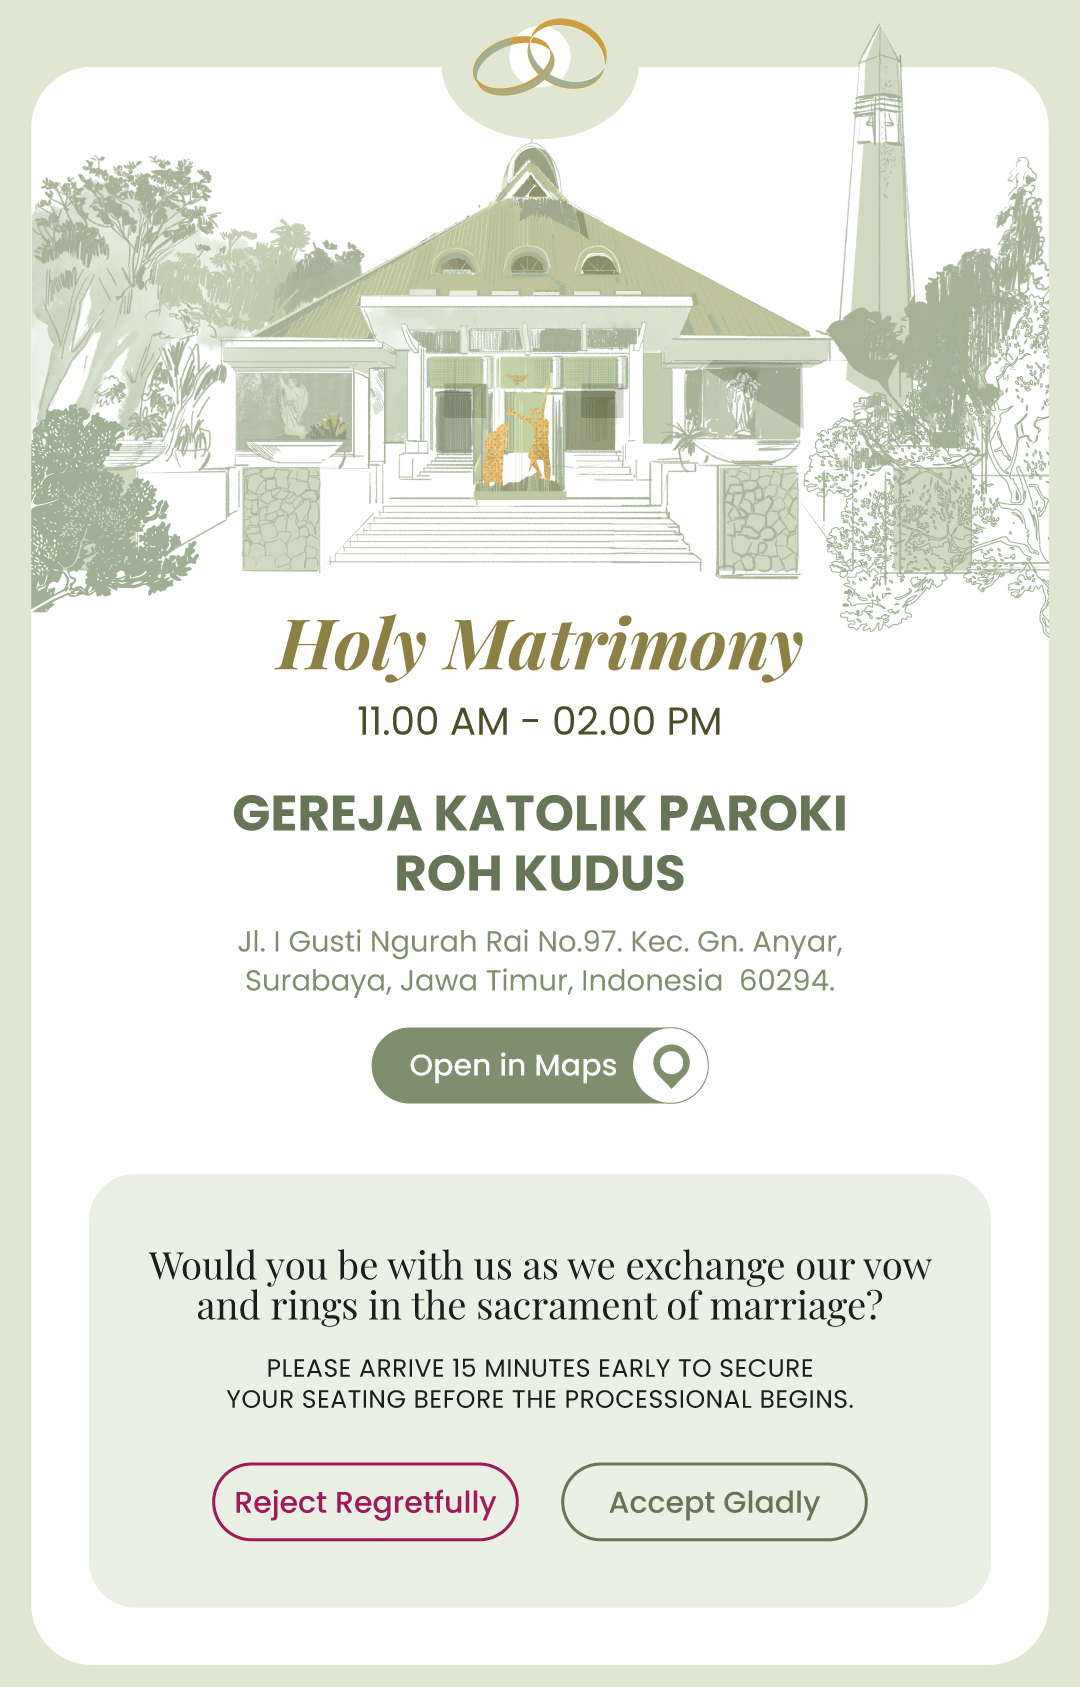
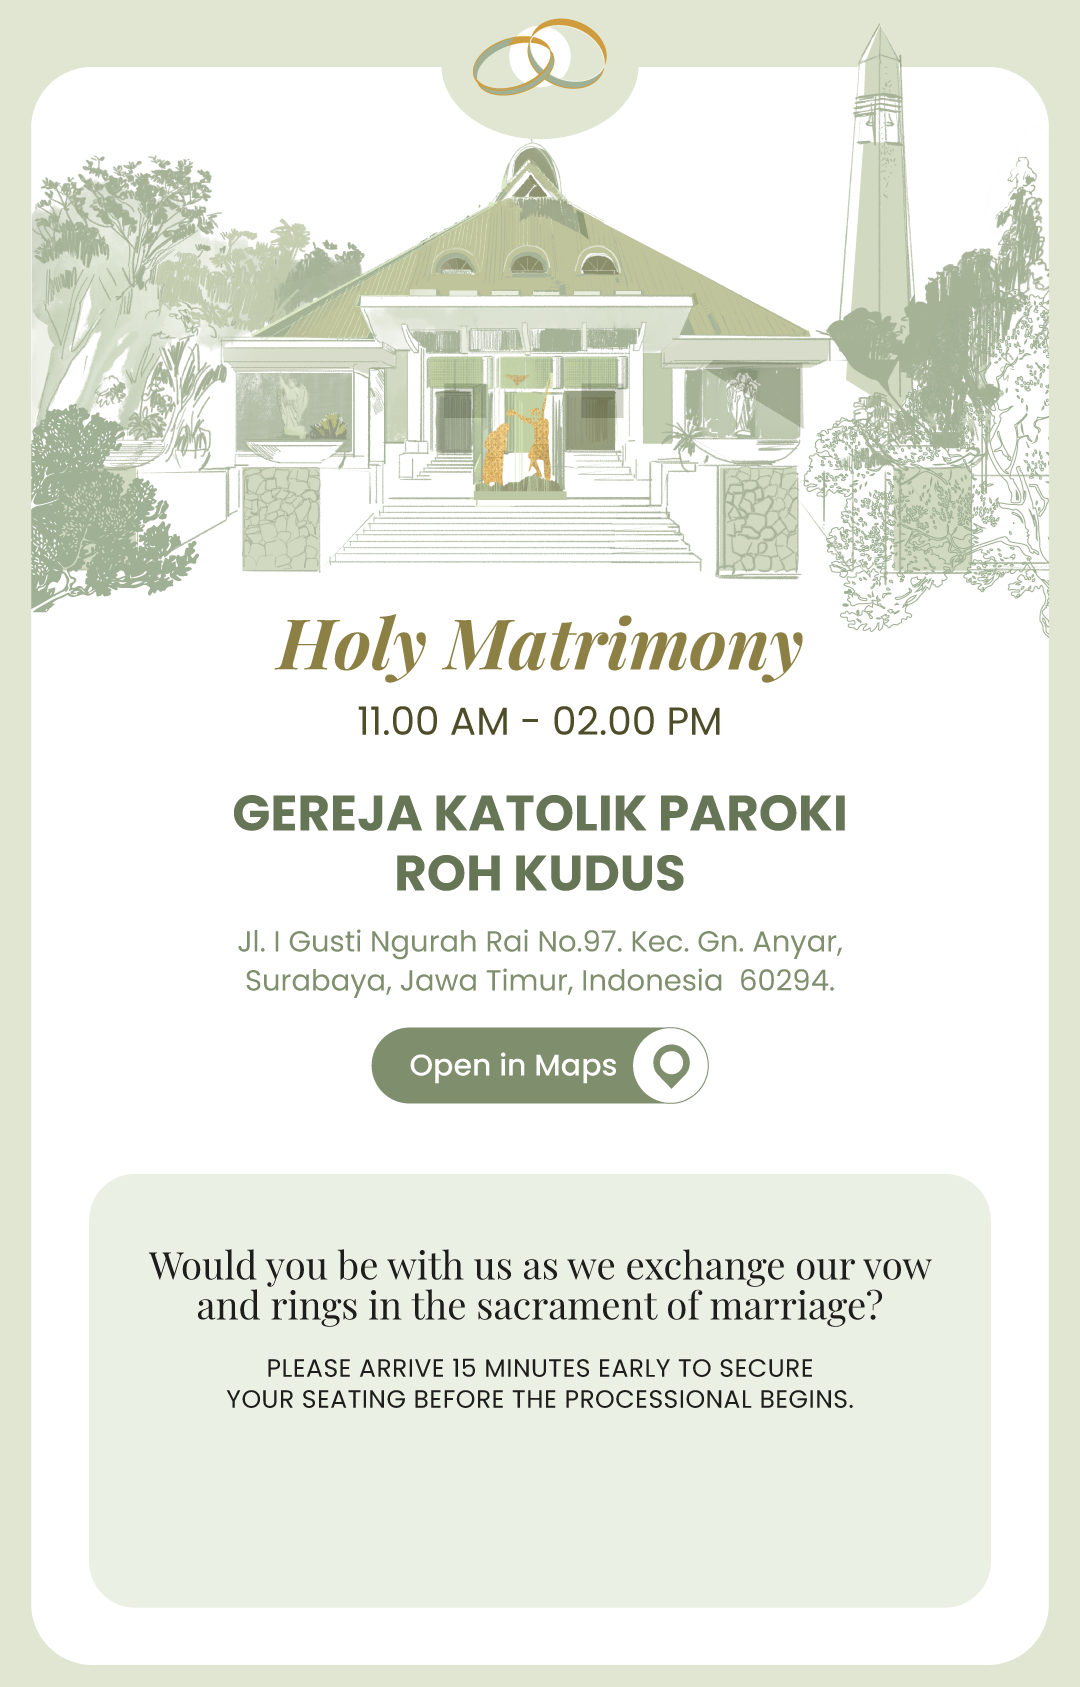
Add files via upload
Major rework

Changed region(s): [[0.2139, 0.8631, 0.4889, 0.9247], [0.5194, 0.8631, 0.7639, 0.9247]]

diff --git a/index.html b/index.html
@@ -42,8 +42,7 @@
   <main id="main-content">
     
     <section class="intro-section" aria-label="Welcome Note">
-      <h2> </h2>
-      <p> </p>
+      <img src="images/RSVPHeader.png" alt="Header" class="hero-BriDe">
     </section>
 
     <!-- PERSONALIZED RSVP & SCHEDULE SECTION (Hidden by default, shown via URL Parameter) -->
@@ -59,39 +58,35 @@
         
         <!-- 1. HOLY MATRIMONY CARD (MORNING) -->
         <article id="matrimony-card" class="event-card" style="display: none;">
-          <img src="images/Matrimony.png" alt="Gereja Roh Kudus" style="width: 100%; height: auto;">
-		  <h3>Holy Matrimony</h3>
-          <div class="event-time-location">11:00 — Gereja Roh Kudus Puri Mas, Rungkut, Surabaya</div>
-          <p class="event-details">
-            Join us as we take our vows and exchange rings in the marriage sacrament. Please arrive 15 minutes early to secure your seating before the processional begins.
-          </p>
           
+		<div class="event-card-wrapper">
+			<img src="images/Matrimony.png" alt="Gereja Roh Kudus" style="width: 100%; height: auto;">
+			<div class="rsvp-btn-container matrimony-button-container">
+				<button onclick="submitEventRSVP('morning', 'Yes')" class="rsvp-btn btn-yes">Accept</button>
+				<button onclick="submitEventRSVP('morning', 'No')" class="rsvp-btn btn-no">Decline</button>
+			</div>
+		</div>
+		  
           <!-- Morning RSVP Controls -->
           <div class="rsvp-block">
             <p id="matrimony-status" class="status-text"></p>
-            <div class="rsvp-btn-container">
-              <button onclick="submitEventRSVP('morning', 'Yes')" class="rsvp-btn btn-yes">Accepts with Joy</button>
-              <button onclick="submitEventRSVP('morning', 'No')" class="rsvp-btn btn-no">Declines with Regret</button>
-            </div>
           </div>
         </article>
 
         <!-- 2. RECEPTION CARD (EVENING) -->
         <article id="reception-card" class="event-card" style="display: none;">
-		  <img src="images/Reception.png" alt="Hotel Novotel" style="width: 100%; height: auto;">
-          <h3>The Reception</h3>
-          <div class="event-time-location">18:00 — Novotel Samator, Surabaya</div>
-          <p class="event-details">
-            Time to celebrate! Dinner, toasts, and dancing will directly follow a cocktail hour in the glass atrium. Dress code is formal attire.
-          </p>
+		
+		  <div class="event-card-wrapper">
+			<img src="images/Reception.png" alt="Hotel Novotel" style="width: 100%; height: auto;">
+			<div class="rsvp-btn-container reception-button-container">
+				<button onclick="submitEventRSVP('evening', 'Yes')" class="rsvp-btn btn-yes">Accept</button>
+				<button onclick="submitEventRSVP('evening', 'No')" class="rsvp-btn btn-no">Decline</button>
+			</div>
+		  </div>
 
           <!-- Evening RSVP Controls -->
           <div class="rsvp-block">
             <p id="reception-status" class="status-text"></p>
-            <div class="rsvp-btn-container">
-              <button onclick="submitEventRSVP('evening', 'Yes')" class="rsvp-btn btn-yes">Accepts with Joy</button>
-              <button onclick="submitEventRSVP('evening', 'No')" class="rsvp-btn btn-no">Declines with Regret</button>
-            </div>
           </div>
         </article>
 

diff --git a/css/style.css b/css/style.css
@@ -165,6 +165,28 @@ main {
 }
 
 /* --- Personalized RSVP Box Layout --- */
+.event-card-wrapper {
+    position: relative;
+}
+
+.matrimony-button-container {
+    position: absolute;
+    top: 87%;          /* adjust up/down */
+    left: 50%;
+    transform: translate(-50%, -50%);
+    width: 100%;
+    margin-top: 0;
+}
+
+.reception-button-container {
+    position: absolute;
+    top: 79%;          /* adjust up/down */
+    left: 50%;
+    transform: translate(-50%, -50%);
+    width: 100%;
+    margin-top: 0;
+}
+
 .rsvp-card {
   background: #E0E6D1;
   border-radius: 12px;
@@ -195,7 +217,7 @@ main {
   font-size: 1rem;
   font-weight: 600;
   border: none;
-  border-radius: 6px;
+  border-radius: 30px;
   cursor: pointer;
   transition: background-color 0.2s, transform 0.1s;
 }
@@ -204,10 +226,10 @@ main {
   transform: scale(0.98);
 }
 
-.btn-yes { background-color: #48BB78; color: white; }
-.btn-yes:hover { background-color: #38A169; }
-.btn-no { background-color: #E53E3E; color: white; }
-.btn-no:hover { background-color: #C53030; }
+.btn-yes { background-color: #738063; color: white; }
+.btn-yes:hover { background-color: #56604A; }
+.btn-no { background-color: #A72D68; color: white; }
+.btn-no:hover { background-color: #7D224E; }
 
 /* Embedded RSVP block inside each event card */
 .rsvp-block {
